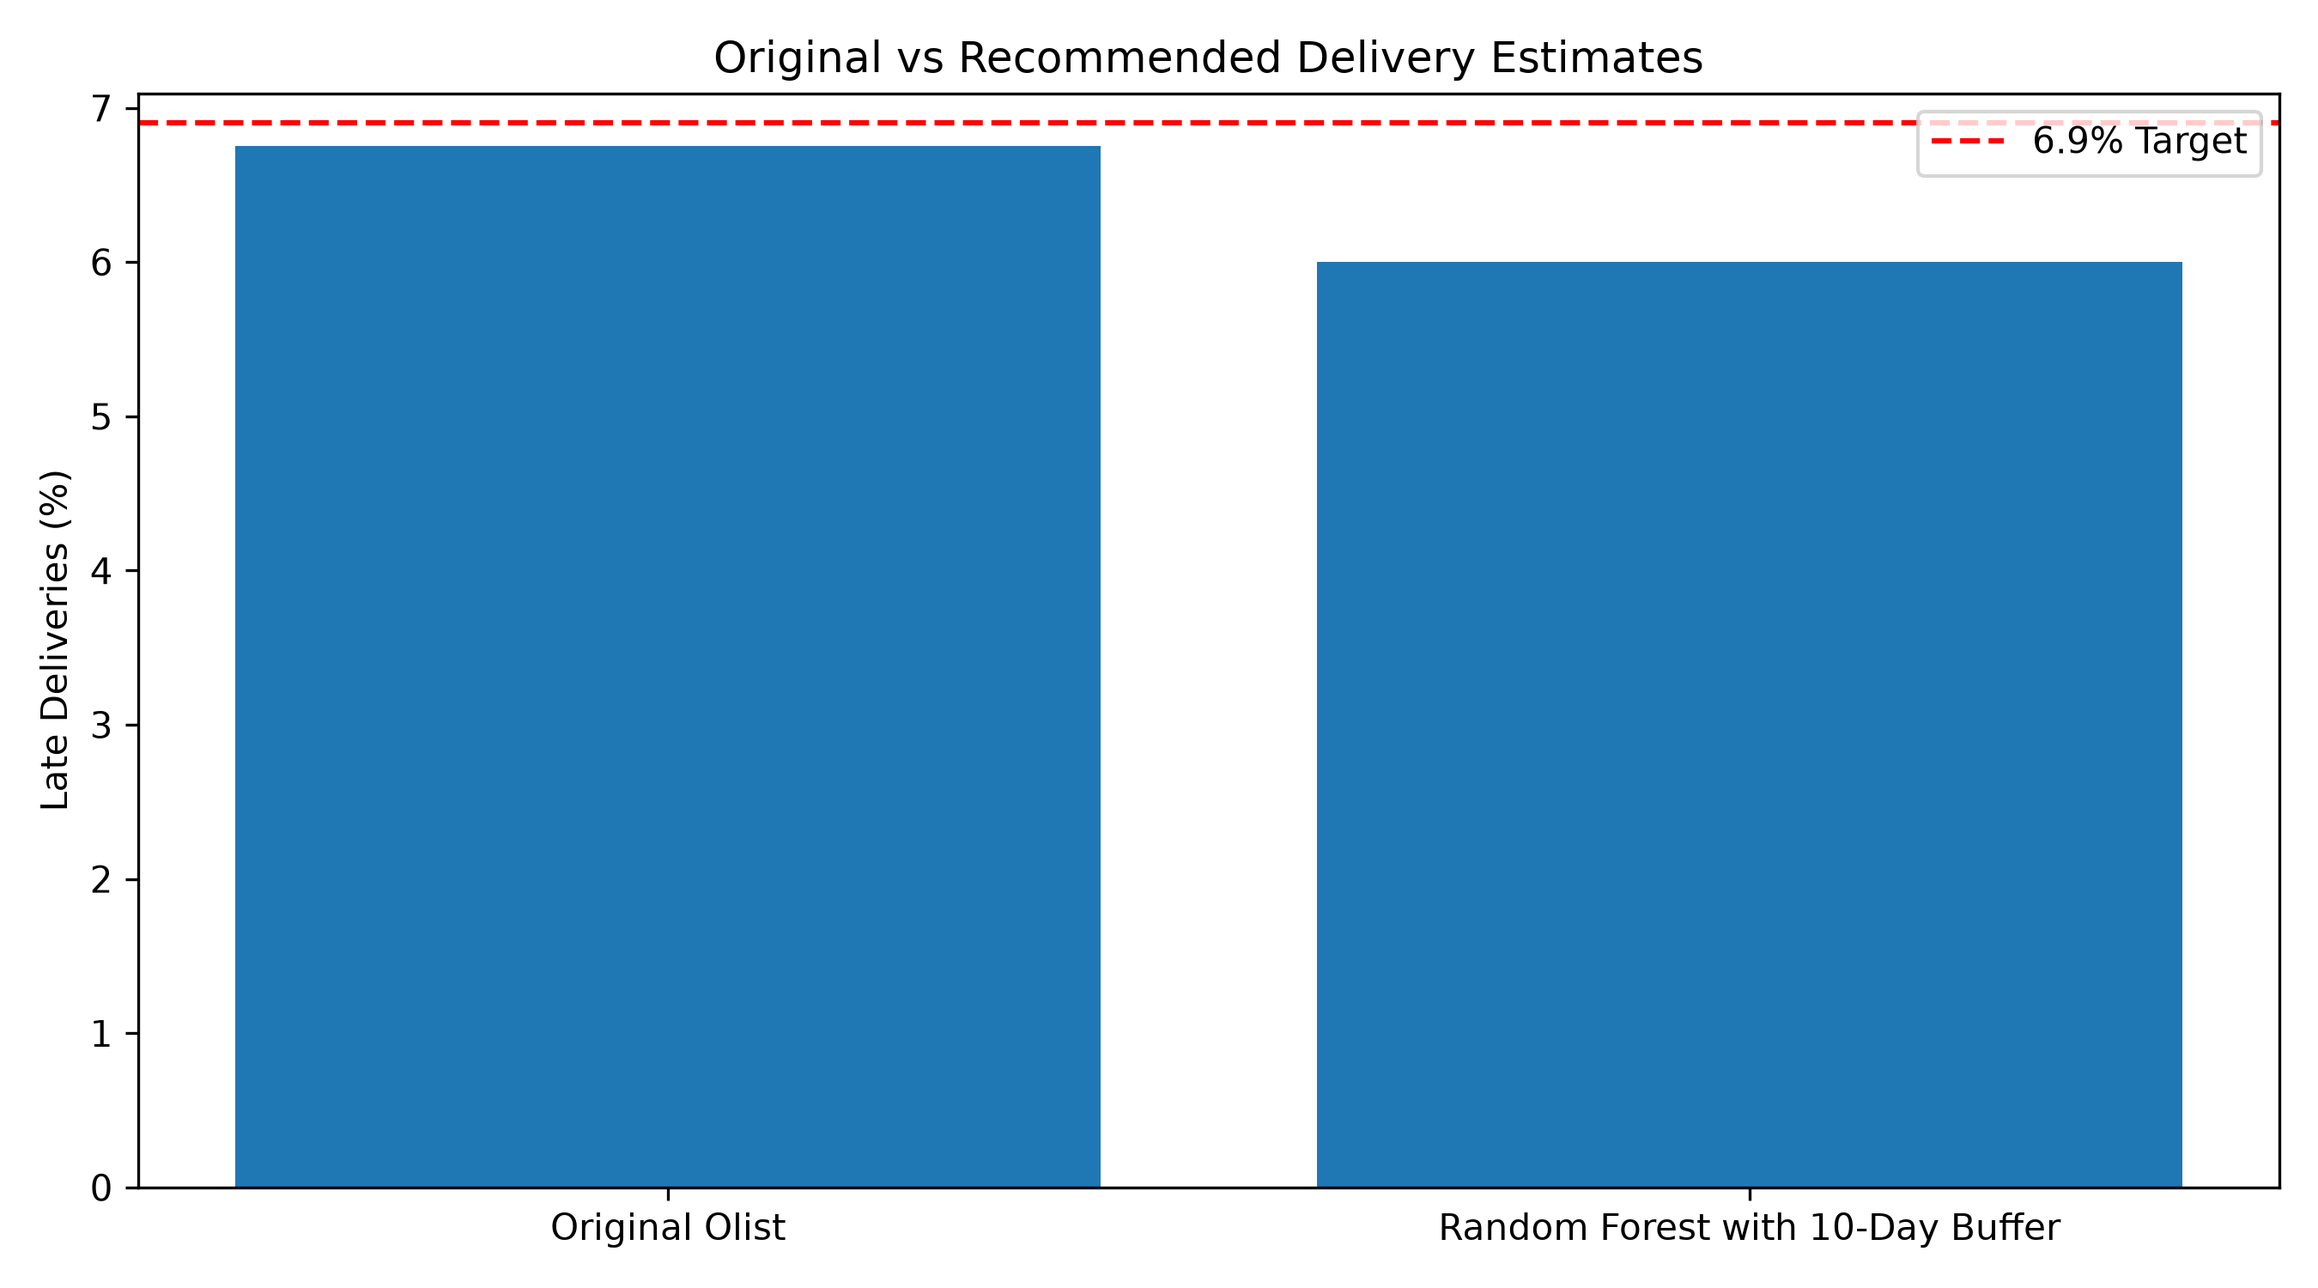
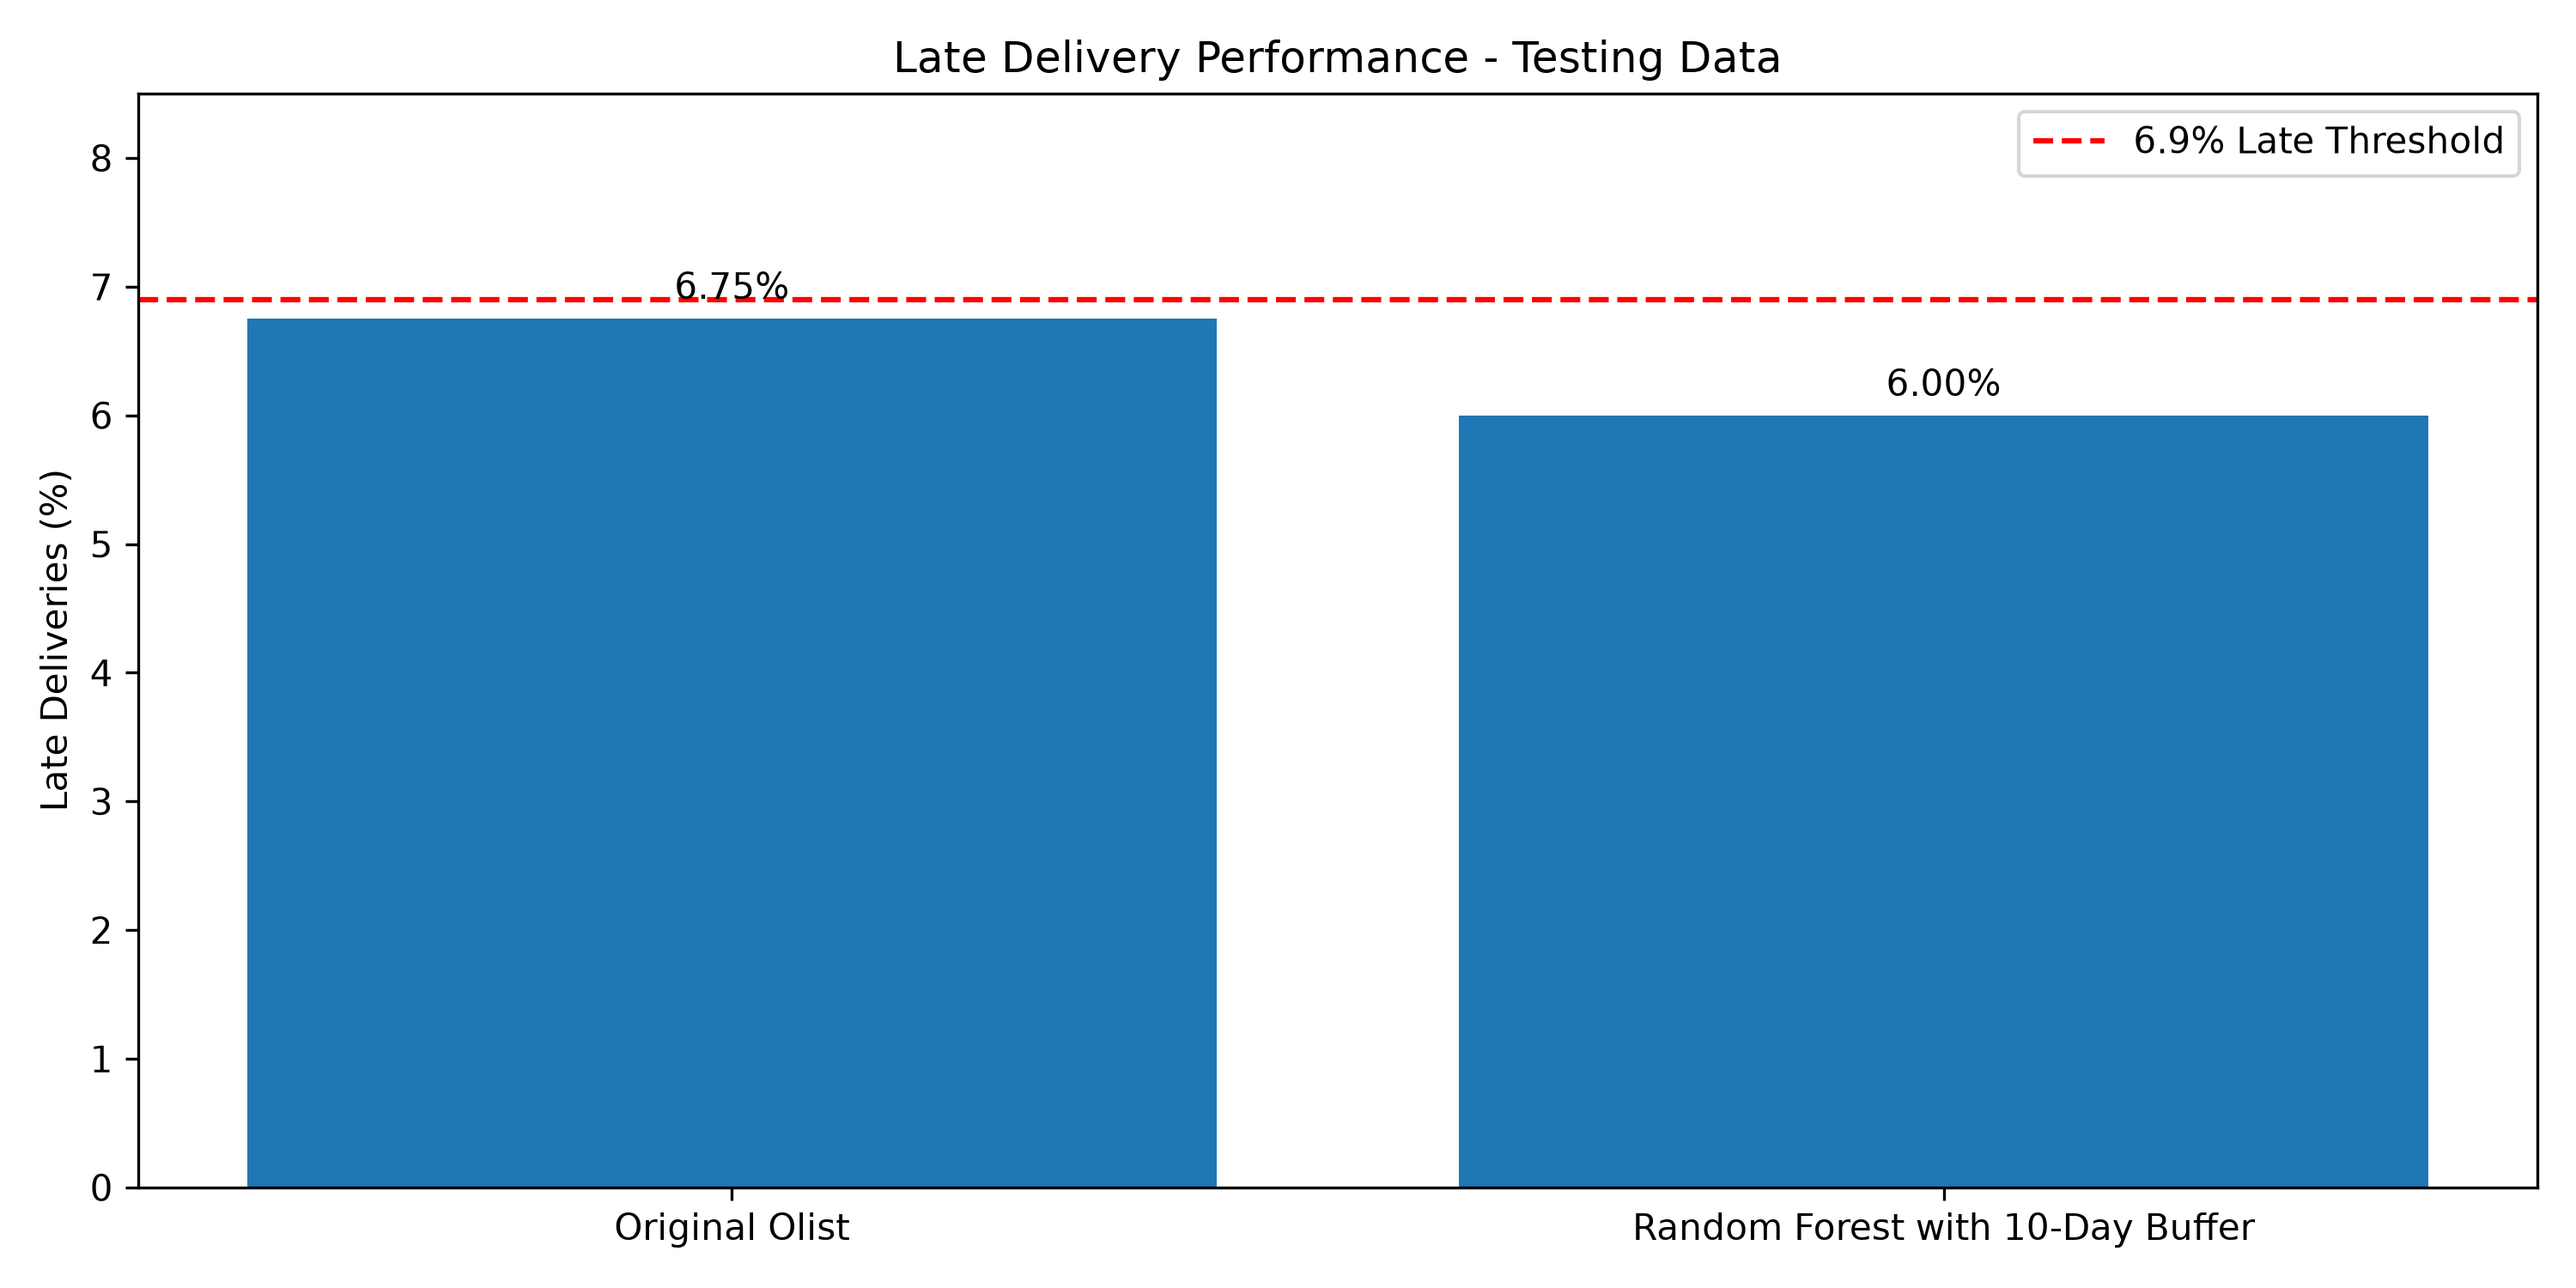
Finalize delivery visualizations and improve graph labels

diff --git a/src/delivery_visualizations.py b/src/delivery_visualizations.py
@@ -24,22 +24,31 @@ plt.savefig(output_dir / "model_comparison.png", dpi=300)
 plt.close()
 
 # Graph 2: Buffer comparison
-fig, ax1 = plt.subplots(figsize=(9, 5))
+fig, ax1 = plt.subplots(figsize=(10, 6))
 
 ax1.plot(buffers["Buffer Days"], buffers["RF Ratio"],
          color="blue", label="Delivery Ratio")
 ax1.set_xlabel("Buffer Days")
 ax1.set_ylabel("Median Delivery Ratio", color="blue")
 
+ax1.axhspan(1.00, 1.25, color="blue", alpha=0.10,
+            label="Target Ratio: 1.00-1.25")
+ax1.set_ylim(0.9, 3.5)
+
 ax2 = ax1.twinx()
 ax2.plot(buffers["Buffer Days"], buffers["RF Late (%)"],
          color="red", label="Late Delivery Rate")
 ax2.set_ylabel("Late Deliveries (%)", color="red")
-ax2.axhline(6.9, color="red", linestyle="--", alpha=0.5)
+ax2.axhline(6.9, color="red", linestyle="--",
+            label="6.9% Late Threshold")
 
-ax1.axvline(10, color="gray", linestyle="--")
+ax1.axvline(10, color="gray", linestyle="--",
+            label="Selected 10-Day Buffer")
 
-plt.title("Random Forest Buffer Trade-Off")
+ax1.legend(loc="upper center", fontsize=8)
+ax2.legend(loc="upper right", fontsize=8)
+
+plt.title("Random Forest Buffer Trade-Off - Validation Data")
 fig.tight_layout()
 plt.savefig(output_dir / "buffer_comparison.png", dpi=300)
 plt.close()
@@ -51,10 +60,13 @@ top_states["route"] = (
     top_states["customer_state"]
 )
 
-plt.figure(figsize=(9, 6))
-plt.barh(top_states["route"], top_states["mae"])
+plt.figure(figsize=(10, 6))
+bars = plt.barh(top_states["route"], top_states["mae"])
+plt.bar_label(bars, fmt="%.2f", padding=3)
 plt.gca().invert_yaxis()
-plt.title("Top 10 Routes with Highest Delivery Errors")
+plt.xlim(0, 23)
+plt.title("Top 10 Routes with Highest Original Delivery Errors\n"
+          "Routes with at Least 100 Orders")
 plt.xlabel("Mean Absolute Error (Days)")
 plt.ylabel("Seller to Customer State")
 plt.tight_layout()
@@ -69,9 +81,15 @@ month_names = [
 
 plt.figure(figsize=(10, 5))
 plt.plot(months["order_month"], months["late_rate"], marker="o")
-plt.axhline(6.9, color="red", linestyle="--", label="6.9% Target")
+
+for x, y in zip(months["order_month"], months["late_rate"]):
+    plt.text(x, y + 0.4, f"{y:.2f}%", ha="center", fontsize=9)
+
+plt.axhline(6.9, color="red", linestyle="--",
+            label="6.9% Late Threshold")
 plt.xticks(range(1, 13), month_names)
-plt.title("Late Delivery Rate by Month")
+plt.ylim(0, 18)
+plt.title("Olist's Original Late Delivery Rate by Month")
 plt.ylabel("Late Deliveries (%)")
 plt.xlabel("Month")
 plt.legend()
@@ -80,10 +98,13 @@ plt.savefig(output_dir / "seasonal_analysis.png", dpi=300)
 plt.close()
 
 # Graph 5: Final delivery performance
-plt.figure(figsize=(9, 5))
-plt.bar(final["Model"], final["Late Deliveries (%)"])
-plt.axhline(6.9, color="red", linestyle="--", label="6.9% Target")
-plt.title("Original vs Recommended Delivery Estimates")
+plt.figure(figsize=(10, 5))
+bars = plt.bar(final["Model"], final["Late Deliveries (%)"])
+plt.bar_label(bars, fmt="%.2f%%", padding=3)
+plt.axhline(6.9, color="red", linestyle="--",
+            label="6.9% Late Threshold")
+plt.ylim(0, 8.5)
+plt.title("Late Delivery Performance - Testing Data")
 plt.ylabel("Late Deliveries (%)")
 plt.legend()
 plt.tight_layout()
